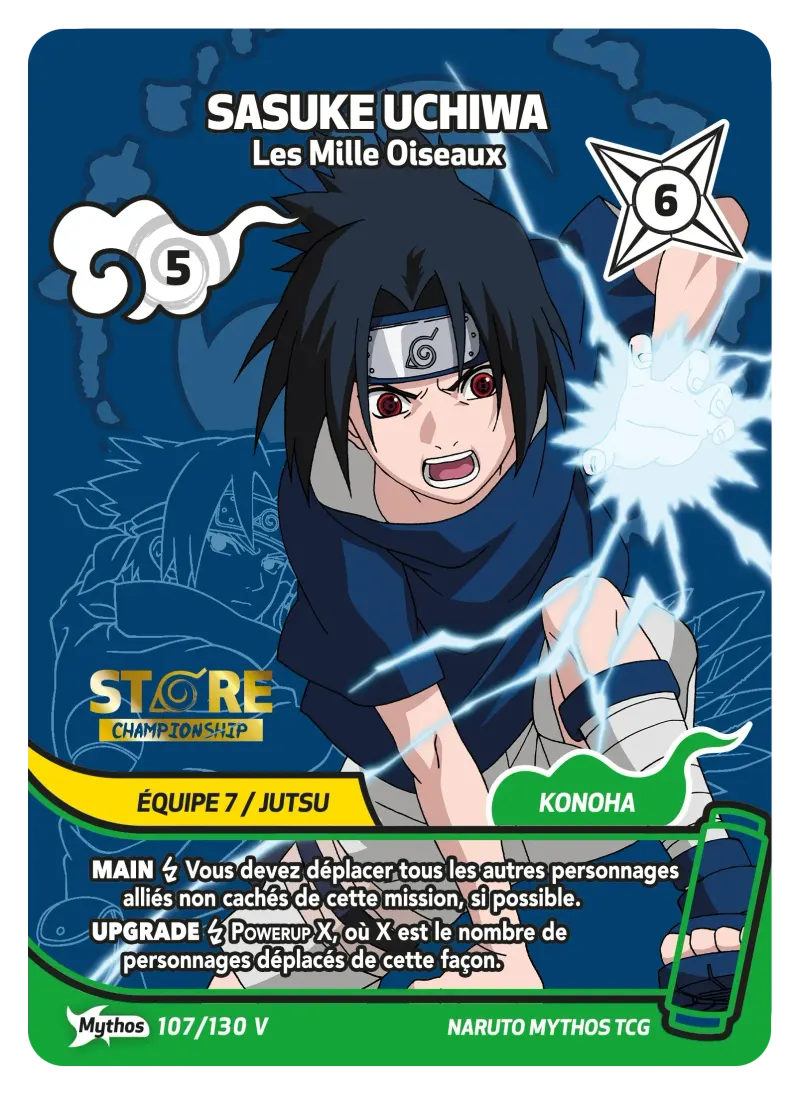
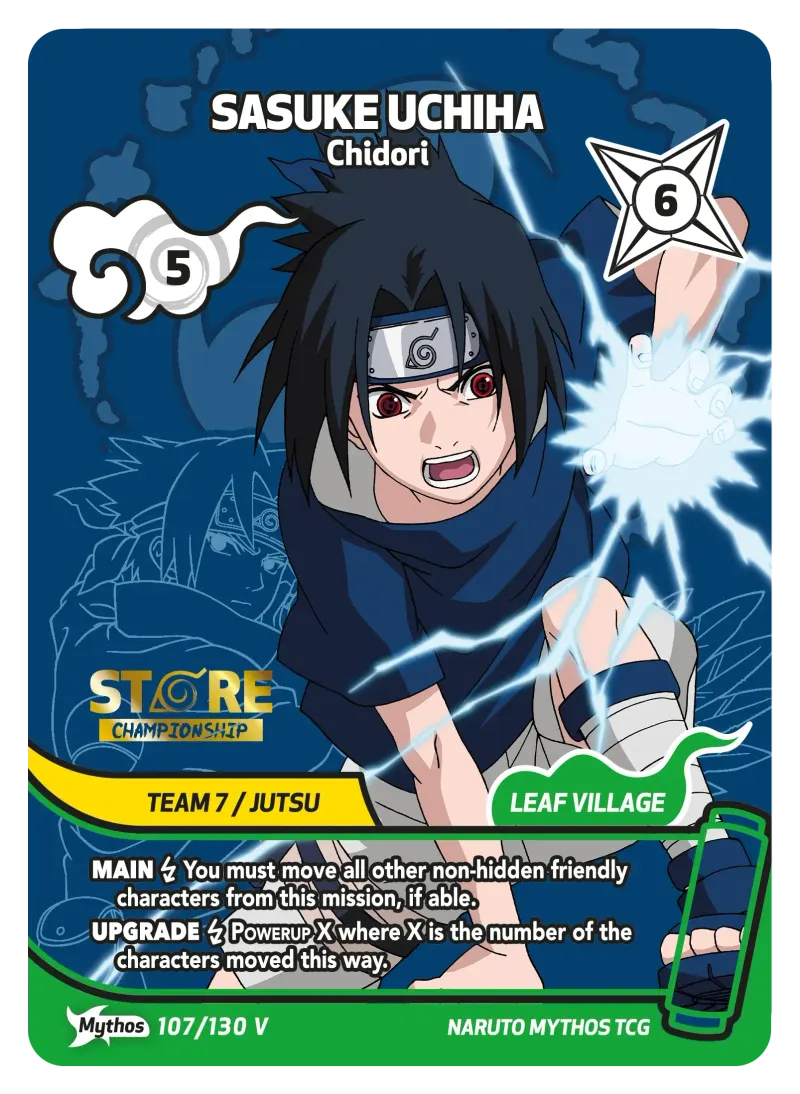
fix: align every English card title and name with the printed card
An audit of all 230 card images found the English data had drifted from what is
actually printed. Titles had been rewritten from the official Naruto
localisation or reworded from memory, quote-style titles had lost their
quotation marks, two variants carried their base card's title, and five cards
carried the wrong name entirely.

Corrects 64 titles, restores 29 sets of quotation marks and fixes 6 names.
The card pages of the renamed cards keep their previous addresses through
retired-slug aliases. Also ships the English print of the Store Championship
Sasuke, which was showing the French card.

diff --git a/lib/cards/slug.ts b/lib/cards/slug.ts
@@ -20,6 +20,15 @@ function preferredSlug(card: CardData): string {
   return `${base}-${card.number}${suffix}`;
 }
 
+const RETIRED_SLUGS: Record<string, string> = {
+  'doki-66': 'KS-066-UC',
+  'gama-bunta-94': 'KS-094-C',
+  'gamakitchi-96': 'KS-096-C',
+  'kyodaigumo-103': 'KS-103-UC',
+  'nine-tails-129': 'KS-129-R',
+  'nine-tails-129-ra': 'KS-129-RA',
+};
+
 let idToSlug: Map<string, string> | null = null;
 let slugToId: Map<string, string> | null = null;
 
@@ -38,6 +47,10 @@ function build(): void {
 
     idToSlug.set(card.id, slug);
     slugToId.set(slug, card.id);
+  }
+
+  for (const [retired, id] of Object.entries(RETIRED_SLUGS)) {
+    if (!slugToId.has(retired) && idToSlug.has(id)) slugToId.set(retired, id);
   }
 }
 

diff --git a/lib/utils/imagePath.ts b/lib/utils/imagePath.ts
@@ -1,5 +1,5 @@
 
-export const IMAGE_VERSION = 7;
+export const IMAGE_VERSION = 8;
 
 export function normalizeImagePath(imageFile?: string): string | null {
   if (!imageFile) return null;
